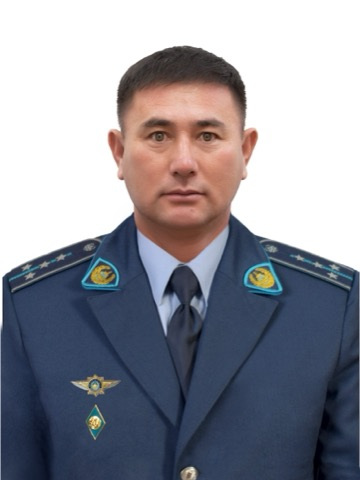
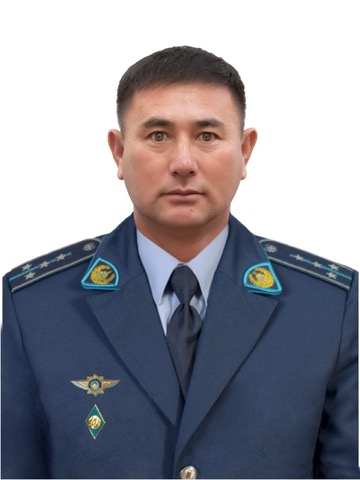
feat: unit officers with phones, Saugabayev photo, Zhamalbekov at Shokpartogay, Izbergenov Maksim at Embi
- All 4 unit cards: officer name + tel link (Salimov, Makhambet Tasbolatovich, Sydykov, Nuraliyev)
- Points modal: Saugabayev photo (post No.12), Shokpartogay inspector Major Zhamalbekov Nurgisa
- Embi post corrected: Police Major Izbergenov Maksim with correct photo (wrong photo removed)
- Mustakhin Eset photo refreshed (police major), placement pending

diff --git a/lib/i18n/dictionaries/en.ts b/lib/i18n/dictionaries/en.ts
@@ -89,6 +89,7 @@ export const en: Dictionary = {
             name: "Local police post No. 12",
             address: "Atyrau microdistrict, Al-Farabi st., 1, apt. 1",
             inspector: "Police Captain Dauren Saugabayev",
+            photo: "/images/officers/saugabayev-dauren.jpg",
             phone: "+7 701 579 1479",
             phoneRaw: "+77015791479",
             twoGis: "https://go.2gis.com/GNLQQ",
@@ -142,14 +143,15 @@ export const en: Dictionary = {
           },
           {
             name: "Embi village post",
-            inspector: "Local police inspector Maksim",
-            photo: "/images/officers/embi-maksim.jpg",
+            inspector: "Police Major Maksim Izbergenov",
+            photo: "/images/officers/izbergenov-maksim.jpg",
             google:
               "https://www.google.com/maps/search/?api=1&query=Емби+Жылыойский+район",
           },
           {
             name: "Shokpartogay village post",
             address: "Kara-Arna district, B. Nurmaganbetov st., 374",
+            inspector: "Police Major Nurgisa Zhamalbekov",
             phone: "+7 775 607 0736",
             phoneRaw: "+77756070736",
             google:
@@ -290,23 +292,43 @@ export const en: Dictionary = {
         title: "Patrol police company",
         description:
           "Round-the-clock patrolling of Kulsary streets and district villages, responding to 102 calls.",
-        officer: { name: "Adilet Salimov", photo: "/images/units/adilet.jpg" },
+        officer: {
+          name: "Adilet Salimov",
+          photo: "/images/units/adilet.jpg",
+          phone: "+7 776 532 9126",
+          phoneRaw: "+77765329126",
+        },
       },
       {
         title: "Migration service",
         description:
           "Residence registration, documentation, registration of foreign citizens.",
-        officer: { name: "Makhambet", photo: "/images/units/makhambet.jpg" },
+        officer: {
+          name: "Makhambet Tasbolatovich",
+          photo: "/images/units/makhambet.jpg",
+          phone: "+7 775 061 7676",
+          phoneRaw: "+77750617676",
+        },
       },
       {
         title: "District inspectors",
         description:
           "Crime prevention, citizen reception, community work in assigned areas.",
+        officer: {
+          name: "Smadiyar Sydykov",
+          phone: "+7 702 524 6681",
+          phoneRaw: "+77025246681",
+        },
       },
       {
         title: "Republican highway patrol",
         description:
           "Monitoring the Atyrau - Kulsary - Tengiz republican highway: speed control, help for drivers in the steppe.",
+        officer: {
+          name: "Adilet Nuraliyev",
+          phone: "+7 778 808 7809",
+          phoneRaw: "+77788087809",
+        },
       },
     ],
   },

diff --git a/lib/i18n/dictionaries/kz.ts b/lib/i18n/dictionaries/kz.ts
@@ -89,6 +89,7 @@ export const kz: Dictionary = {
             name: "№12 учаскелік полиция пункті",
             address: "Атырау ықшамауданы, Әл-Фараби көшесі, 1 үй, 1 кв.",
             inspector: "Полиция капитаны Саугабаев Даурен Сенбаевич",
+            photo: "/images/officers/saugabayev-dauren.jpg",
             phone: "+7 701 579 1479",
             phoneRaw: "+77015791479",
             twoGis: "https://go.2gis.com/GNLQQ",
@@ -142,14 +143,15 @@ export const kz: Dictionary = {
           },
           {
             name: "Ембі ауылындағы пункт",
-            inspector: "Учаскелік полиция инспекторы Максим",
-            photo: "/images/officers/embi-maksim.jpg",
+            inspector: "Полиция майоры Ізбергенов Максим",
+            photo: "/images/officers/izbergenov-maksim.jpg",
             google:
               "https://www.google.com/maps/search/?api=1&query=Емби+Жылыойский+район",
           },
           {
             name: "Шоқпартоғай ауылындағы пункт",
             address: "Қара арна округі, Б. Нұрмағанбетов көшесі, 374",
+            inspector: "Полиция майоры Жамалбеков Нұргиса",
             phone: "+7 775 607 0736",
             phoneRaw: "+77756070736",
             google:
@@ -290,23 +292,43 @@ export const kz: Dictionary = {
         title: "Патрульдік полиция ротасы",
         description:
           "Құлсары көшелері мен аудан ауылдарын тәулік бойы патрульдеу, 102 шақыруларына ден қою.",
-        officer: { name: "Салимов Адилет", photo: "/images/units/adilet.jpg" },
+        officer: {
+          name: "Салимов Адилет",
+          photo: "/images/units/adilet.jpg",
+          phone: "+7 776 532 9126",
+          phoneRaw: "+77765329126",
+        },
       },
       {
         title: "Көші-қон қызметі",
         description:
           "Тұрғылықты жері бойынша тіркеу, құжаттандыру, шетел азаматтарын есепке алу.",
-        officer: { name: "Махамбет", photo: "/images/units/makhambet.jpg" },
+        officer: {
+          name: "Махамбет Тасболатович",
+          photo: "/images/units/makhambet.jpg",
+          phone: "+7 775 061 7676",
+          phoneRaw: "+77750617676",
+        },
       },
       {
         title: "Учаскелік инспекторлар",
         description:
           "Құқық бұзушылықтың алдын алу, азаматтарды қабылдау, бекітілген учаскелерде халықпен жұмыс.",
+        officer: {
+          name: "Сыдыков Смадияр Куралбекович",
+          phone: "+7 702 524 6681",
+          phoneRaw: "+77025246681",
+        },
       },
       {
         title: "Республикалық трассадағы жол патрулі",
         description:
           "Атырау - Құлсары - Теңіз республикалық трассасын бақылау: жылдамдық режимі, даладағы жүргізушілерге көмек.",
+        officer: {
+          name: "Нұралиев Әділет Ерболатұлы",
+          phone: "+7 778 808 7809",
+          phoneRaw: "+77788087809",
+        },
       },
     ],
   },

diff --git a/lib/i18n/dictionaries/ru.ts b/lib/i18n/dictionaries/ru.ts
@@ -89,6 +89,7 @@ export const ru: Dictionary = {
             name: "Участковый пункт полиции №12",
             address: "мкр Атырау, ул. Аль-Фараби, д. 1, кв. 1",
             inspector: "Капитан полиции Саугабаев Даурен Сенбаевич",
+            photo: "/images/officers/saugabayev-dauren.jpg",
             phone: "+7 701 579 1479",
             phoneRaw: "+77015791479",
             twoGis: "https://go.2gis.com/GNLQQ",
@@ -142,14 +143,15 @@ export const ru: Dictionary = {
           },
           {
             name: "Пункт в селе Ембі",
-            inspector: "Участковый инспектор полиции Максим",
-            photo: "/images/officers/embi-maksim.jpg",
+            inspector: "Майор полиции Избергенов Максим",
+            photo: "/images/officers/izbergenov-maksim.jpg",
             google:
               "https://www.google.com/maps/search/?api=1&query=Емби+Жылыойский+район",
           },
           {
             name: "Пункт в селе Шокпартогай",
             address: "округ Кара-Арна, ул. Б. Нурмаганбетова, 374",
+            inspector: "Майор полиции Жамалбеков Нургиса",
             phone: "+7 775 607 0736",
             phoneRaw: "+77756070736",
             google:
@@ -290,23 +292,43 @@ export const ru: Dictionary = {
         title: "Рота патрульной полиции",
         description:
           "Круглосуточное патрулирование улиц Кульсары и сёл района, реагирование на вызовы 102.",
-        officer: { name: "Салимов Адилет", photo: "/images/units/adilet.jpg" },
+        officer: {
+          name: "Салимов Адилет",
+          photo: "/images/units/adilet.jpg",
+          phone: "+7 776 532 9126",
+          phoneRaw: "+77765329126",
+        },
       },
       {
         title: "Миграционная служба",
         description:
           "Регистрация по месту жительства, документирование, учёт иностранных граждан.",
-        officer: { name: "Махамбет", photo: "/images/units/makhambet.jpg" },
+        officer: {
+          name: "Махамбет Тасболатович",
+          photo: "/images/units/makhambet.jpg",
+          phone: "+7 775 061 7676",
+          phoneRaw: "+77750617676",
+        },
       },
       {
         title: "Участковые инспекторы",
         description:
           "Профилактика правонарушений, приём граждан, работа с населением на закреплённых участках.",
+        officer: {
+          name: "Сыдыков Смадияр Куралбекович",
+          phone: "+7 702 524 6681",
+          phoneRaw: "+77025246681",
+        },
       },
       {
         title: "Дорожный патруль на республиканской трассе",
         description:
           "Контроль республиканской трассы Атырау - Кульсары - Тенгиз: скоростной режим, помощь водителям в степи.",
+        officer: {
+          name: "Нуралиев Адилет Ерболатулы",
+          phone: "+7 778 808 7809",
+          phoneRaw: "+77788087809",
+        },
       },
     ],
   },

diff --git a/components/taplink/sections.tsx b/components/taplink/sections.tsx
@@ -566,6 +566,15 @@ export function UnitsSection({ dict }: { dict: Dictionary }) {
                   <span className="block text-sm font-semibold text-ink">
                     {unit.officer.name}
                   </span>
+                  {unit.officer.phone && unit.officer.phoneRaw && (
+                    <a
+                      href={`tel:${unit.officer.phoneRaw}`}
+                      className="mt-0.5 inline-flex min-h-6 items-center gap-1 text-xs font-bold text-gold-300 transition-colors hover:text-gold-400"
+                    >
+                      <Phone className="h-3 w-3" aria-hidden />
+                      <span className="tabular-nums">{unit.officer.phone}</span>
+                    </a>
+                  )}
                 </span>
               </div>
             )}

diff --git a/lib/i18n/types.ts b/lib/i18n/types.ts
@@ -29,8 +29,8 @@ export type PointGroup = {
 export type Unit = {
   title: string;
   description: string;
-  /** Ответственное лицо раздела; фото опционально - данные передаются постепенно */
-  officer?: { name: string; photo?: string };
+  /** Ответственное лицо раздела; фото и телефон опциональны - данные передаются постепенно */
+  officer?: { name: string; photo?: string; phone?: string; phoneRaw?: string };
 };
 
 export type DeviceImage = {

diff --git a/wiki/pages/sources/zhylyoi-police-research.md b/wiki/pages/sources/zhylyoi-police-research.md
@@ -48,16 +48,22 @@ sources:
 - **«Оракул-Инсайт»** (ООО «Ольвия», olvia.ru/product/complex/oraculinside) - компактный оптико-радиолокационный комплекс фотовидеофиксации; работает в движении и стационарно, скрытая и открытая фиксация.
 - Видео-блок ведёт на Instagram-пост instagram.com/p/DacNY0DN3u1; Telegram из соцсетей убран.
 
-## Фото сотрудников (от заказчика, 2026-07-08)
+## Фото и ответственные (от заказчика, 2026-07-08/09)
 
-Размещены (`public/images/officers/`, `public/images/units/`):
-- Салимов Адилет - ответственный роты патрульной полиции (полное имя уточнено по фото).
-- Махамбет - миграционная служба (фото «Миграция»).
-- Пайзов Абылай - УПП №1; Жетенов Нуржан - УПП №10 (Майкомген); Таутекин Нурлыбек - Аккиизтогай.
-- Максим - пункт в селе Ембі (добавлен 5-м сельским пунктом; телефона и адреса нет).
+Ответственные лица подразделений (карточки «05 Подразделения», все с телефонами):
+- Рота патрульной полиции - Салимов Адилет, +7 776 532 9126 (фото).
+- Миграционная служба - Махамбет Тасболатович, +7 775 061 7676 (фото «Миграция»).
+- Участковые инспекторы (отдел общественной безопасности) - Сыдыков Смадияр Куралбекович, +7 702 524 6681 (без фото).
+- Республиканская трасса - Нұралиев Әділет Ерболатұлы, +7 778 808 7809 (без фото).
 
-Ожидают привязки (лежат в `public/images/officers/`, на сайте не отображаются):
-- Мустахин Есет (mustakhin-eset.jpg), Каленов Азамат (kalenov-azamat.jpg), Жаналинов Рауан Исибаевич (zhanalinov-rauan.jpg) - заказчик не указал пункты/разделы.
+Фото инспекторов пунктов (`public/images/officers/`):
+- Пайзов Абылай - УПП №1; Жетенов Нуржан - УПП №10 (Майкомген); Таутекин Нурлыбек - Аккиизтогай; Саугабаев Даурен - УПП №12.
+- Ембі - **майор полиции Ізбергенов Максим** (фото исправлено 2026-07-09; первое фото «Ембі Максим» было ошибочным и удалено).
+- Шокпартогай - майор полиции Жамалбеков Нұргиса (без фото).
+
+Ожидают привязки (на сайте не отображаются):
+- Мустахин Есет - **майор полиции** (mustakhin-eset.jpg, фото обновлено 2026-07-09) - заказчик не указал пункт/раздел.
+- Каленов Азамат (kalenov-azamat.jpg), Жаналинов Рауан Исибаевич (zhanalinov-rauan.jpg).
 - Instagram управления: **@jylyoi_police_** (https://www.instagram.com/jylyoi_police_/).
 - Зарплату на сайте не публиковать (убрана 2026-07-08).
 - **В Кульсары 954 камеры «Сергек»** (в статистике сайта). Население района и «320+ нарушений дронами» на сайте не показывать.

diff --git a/wiki/log.md b/wiki/log.md
@@ -1,5 +1,11 @@
 # Лог wiki
 
+## [2026-07-09] feat + fix | ответственные с телефонами, новые фото, исправление Ембі
+
+- feat: [[taplink-page]] - все 4 подразделения получили ответственных с телефонами (Салимов, Махамбет Тасболатович, Сыдыков, Нұралиев); фото Саугабаева в УПП №12; Шокпартогай - майор Жамалбеков Нұргиса.
+- fix: Ембі - правильные данные «Полиция майоры Ізбергенов Максим» и новое фото (старое «Ембі Максим» было ошибочным, удалено).
+- ingest: Мустахин Есет - майор полиции, фото обновлено, привязка не указана ([[zhylyoi-police-research]]).
+
 ## [2026-07-08] feat + ingest | фото сотрудников
 
 - ingest: 9 портретов от заказчика смэтчены с данными ([[zhylyoi-police-research]]); 3 без привязки (Мустахин, Каленов, Жаналинов).

diff --git a/wiki/pages/entities/taplink-page.md b/wiki/pages/entities/taplink-page.md
@@ -17,10 +17,10 @@ sources: [components/taplink/, app/(site)/[lang]/]
 2. Экстренный блок: золотая кнопка **102** (tel:), дежурная часть, адрес (ул. Бисенби Бисенкулова, 47) - карточка-ссылка на точку в Google Картах.
 3. «Служба в цифрах» - 2 статистики: 954 камеры «Сергек» в Кульсары и дежурная часть 24/7. Население района и «320+ нарушений дронами» убраны по требованию заказчика (2026-07-08).
 4. **01 Информация** - информация по району (площадь, население, нефть, 416 улиц, 14 688 домов и ж/д вокзал в Кульсары; упоминание паводка-2024 удалено по требованию заказчика) + ссылки на Википедию и gov.kz.
-5. **02 Участковые пункты полиции** - карточка УП Кульсары (2ГИС/Google) + кнопка «Показать все пункты», открывающая модалку (`Modal` из primitives) со списком 10 пунктов в двух группах: город Кульсары (4) и сельская местность (6). У каждого пункта: адрес, инспектор (звание+ФИО, фото-аватар при наличии в `public/images/officers/`), телефон (tel:), ссылки 2ГИС/Google. Данные по 8 пунктам; с фото: Пайзов Абылай (№1), Жетенов Нуржан (№10), Таутекин Нурлыбек (Аккиизтогай), Максим (Ембі).
+5. **02 Участковые пункты полиции** - карточка УП Кульсары (2ГИС/Google) + кнопка «Показать все пункты», открывающая модалку (`Modal` из primitives) со списком в двух группах: город Кульсары (4) и сельская местность (6). У каждого пункта: адрес, инспектор (звание+ФИО, фото-аватар при наличии в `public/images/officers/`), телефон (tel:), ссылки 2ГИС/Google. Данные по 8 пунктам; с фото: Пайзов (№1), Саугабаев (№12), Жетенов (№10), Таутекин (Аккиизтогай), Ізбергенов Максим (Ембі); Жамалбеков Нұргиса (Шокпартогай) - без фото.
 6. **03 Системы отслеживания** - 4 карточки устройств (`tracking.devices`), «Кибер шериф» и Ekin Patrol G2 - РАЗНЫЕ системы: «Дрон» (DJI Matrice 350 RTK: 20 км, 55 мин, 82,8 км/ч; фото-модалка), «Кибер шериф» (360° видеофиксация, распознавание номеров и лиц по базам розыска, онлайн-трансляция с ДТП; 3 фото + ссылка msmax.kz/kiber_sherif), «Ekin Patrol G2» (ИИ-комплекс: 360° контроль скорости до 100 м, проверка по базам угона/штрафов, лимиты по полосам; 5 фото) и «Оракул-Инсайт» (оптико-радиолокационный комплекс; ссылка olvia.ru/product/complex/oraculinside). Фото в `public/images/tracking/`.
 7. **04 Жұмысқа қабылдау** - колаут «сержантские должности - без тестирования» + кнопка «Толық ақпарат», открывающая единую модалку: льготы, требования (18–35, здоровье, среднее спец. или высшее), документы, ссылки adilet.zan.kz, контакт кадровой службы (Б. Бисенкулова 47, +7 775 488 20 58). Зарплата убрана по требованию заказчика.
-8. **05 Подразделения** - грид 2×2 с блоком «Ответственное лицо» (фото-аватар + имя) в карточке: рота патрульной полиции - Салимов Адилет (`/images/units/adilet.jpg`), миграционная служба - Махамбет (`/images/units/makhambet.jpg`, фото «Миграция»); участковые и республиканская трасса - ответственные пока не назначены (поле `officer` опционально). Модалка «Список сотрудников» удалена по требованию заказчика (2026-07-08).
+8. **05 Подразделения** - грид 2×2 с блоком «Ответственное лицо» (фото-аватар + имя + телефон tel:) во всех карточках: патруль - Салимов Адилет, миграция - Махамбет Тасболатович, участковые - Сыдыков Смадияр Куралбекович (без фото, иконка-заглушка), трасса - Нұралиев Әділет Ерболатұлы (без фото). Телефоны см. [[zhylyoi-police-research]]. Модалка «Список сотрудников» удалена по требованию заказчика (2026-07-08).
 9. **06 Аварийные участки** - раскрываемая справка о трассах Атырау-Кульсары-Тенгиз.
 10. **07 Видео** - карточка-ссылка на Instagram-пост управления (instagram.com/p/DacNY0DN3u1).
 11. **08 Соцсети** - Instagram **@jylyoi_police_** (собственный аккаунт УП), Facebook (областной), TikTok «скоро». Telegram убран по требованию заказчика.